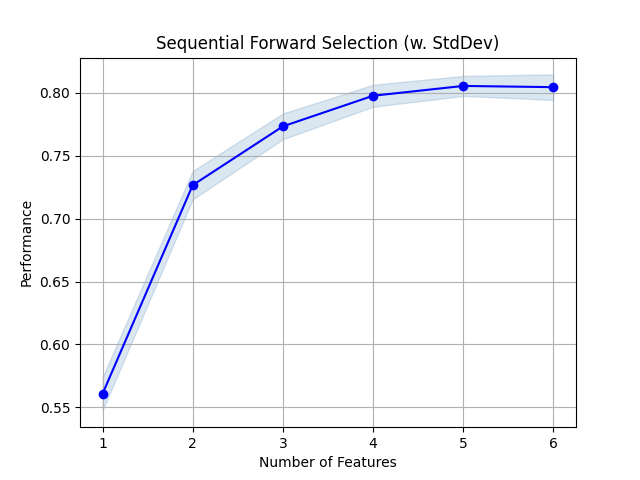
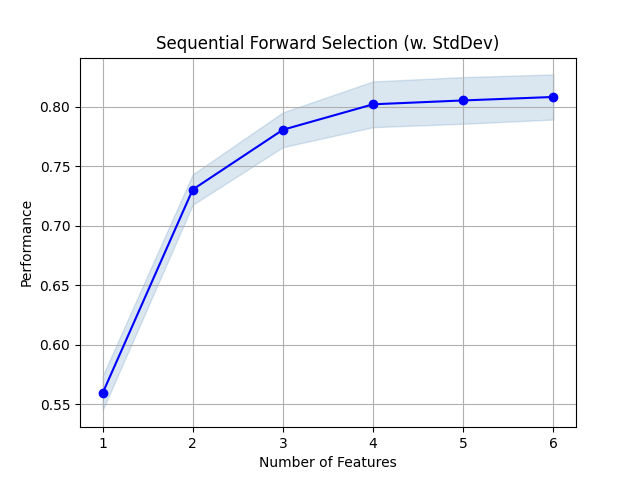
plotted the SFS

diff --git a/model.py b/model.py
@@ -43,7 +43,7 @@ def plot_metrics(test_metrics, metric_names, model_name, plot_name):
             va="bottom",
         )
 
-    plt.savefig(f"plots/{plot_name}.png")
+    plt.savefig(f"plots/metrics/{plot_name}.png")
 
 
 def plot_confusion_matrix(y_true, y_pred, class_labels, plot_name, model_name):
@@ -60,7 +60,7 @@ def plot_confusion_matrix(y_true, y_pred, class_labels, plot_name, model_name):
     plt.xlabel("Predicted Label")
     plt.ylabel("True Label")
     plt.title(f"{model_name} Confusion Matrix")
-    plt.savefig(f"plots/{plot_name}.png")
+    plt.savefig(f"plots/metrics/{plot_name}.png")
 
 
 def plot_feature_vector_distribution(X_train_scaled, y_train):
@@ -109,7 +109,7 @@ def plot_feature_vector_distribution(X_train_scaled, y_train):
         plt.ylabel("Density")
 
     plt.tight_layout()
-    plt.savefig("plots/feature_vector_distributions_2.png")
+    plt.savefig("plots/metrics/feature_vector_distributions_2.png")
 
 
 def plot_sfs_progression(estimator, X_train_scaled, y_train):
@@ -398,6 +398,49 @@ def SVM():
     experiment_1_base.fit(X_train_experiment_1, y_train)
     y_hat_experiment_1_base = experiment_1_base.predict(X_test_experiment_1)
 
+    # compute metrics for baseline
+    metric_names = ["Accuracy", "Precision", "Recall", "F1-score"]
+    experiment_1_base_accuracy = metrics.accuracy_score(y_test, y_hat_experiment_1_base)
+    experiment_1__base_precision = metrics.precision_score(
+        y_test, y_hat_experiment_1_base, average="macro"
+    )
+    experiment_1__base_recall = metrics.recall_score(
+        y_test, y_hat_experiment_1_base, average="macro"
+    )
+    experiment_1__base_f1 = metrics.f1_score(
+        y_test, y_hat_experiment_1_base, average="macro"
+    )
+    print("\nClassification Report Experiment 1 Baseline:")
+    print(
+        metrics.classification_report(
+            y_test, y_hat_experiment_1_base, target_names=label_decoder.classes_
+        )
+    )
+    experiment_1_test_metrics = [
+        experiment_1_base_accuracy,
+        experiment_1__base_precision,
+        experiment_1__base_recall,
+        experiment_1__base_f1,
+    ]
+
+    plot_metrics(
+        experiment_1_test_metrics,
+        metric_names,
+        plot_name="experiment_1_baseline_linear_svm_metrics",
+        model_name="experiment_1_baseline Linear SVM",
+    )
+
+    # Plot Confusion Matrix for Regular Validation
+    plot_confusion_matrix(
+        y_test,
+        y_hat_experiment_1_base,
+        label_decoder.classes_,
+        plot_name="experiment_1_baseline_linear_svm_confusion_matrix",
+        model_name="experiment_1_baseline Linear SVM",
+    )
+
+    # ======================================================================#
+    # Feature Selection
     experiment_1 = SFS(
         experiment_1_base,
         k_features=6,
@@ -408,22 +451,20 @@ def SVM():
         cv=5,
     )
     experiment_1.fit(X_train_experiment_1, y_train)
-    y_hat_experiment_1 = experiment_1.predict(X_test_experiment_1)
+    X_train_experiment_1_selected = experiment_1.transform(X_train_experiment_1)
+    X_test_experiment_1_selected = experiment_1.transform(X_test_experiment_1)
+    experiment_1_base.fit(X_train_experiment_1_selected, y_train)
+    y_hat_experiment_1 = experiment_1_base.predict(X_test_experiment_1_selected)
 
     fig1 = plot_sfs(experiment_1.get_metric_dict(), kind="std_dev")
 
     # plt.ylim([0.8, 1])
-    plt.title("Sequential Forward Selection (w. StdDev)")
+    plt.title("Sequential Forward Selection Experiemnt 1 (time domain features)")
     plt.grid()
-    plt.savefig("temp.png")
+    plt.savefig("plots/metrics/SFS_experiment_1.png")
 
-    # compute metrics
-    metric_names = ["Accuracy", "Precision", "Recall", "F1-score"]
-    experiment_1_base_accuracy = metrics.accuracy_score(y_test, y_hat_experiment_1_base)
+    # compute metrics for Experiment 1
     experiment_1_accuracy = metrics.accuracy_score(y_test, y_hat_experiment_1)
-    experiment_1__base_precision = metrics.precision_score(
-        y_test, y_hat_experiment_1_base, average="macro"
-    )
     experiment_1_precision = metrics.precision_score(
         y_test, y_hat_experiment_1, average="macro"
     )
@@ -432,7 +473,7 @@ def SVM():
     )
     experiment_1_f1 = metrics.f1_score(y_test, y_hat_experiment_1, average="macro")
 
-    print("\nClassification Report:")
+    print("\nClassification Report Experiment 1:")
     print(
         metrics.classification_report(
             y_test, y_hat_experiment_1, target_names=label_decoder.classes_
